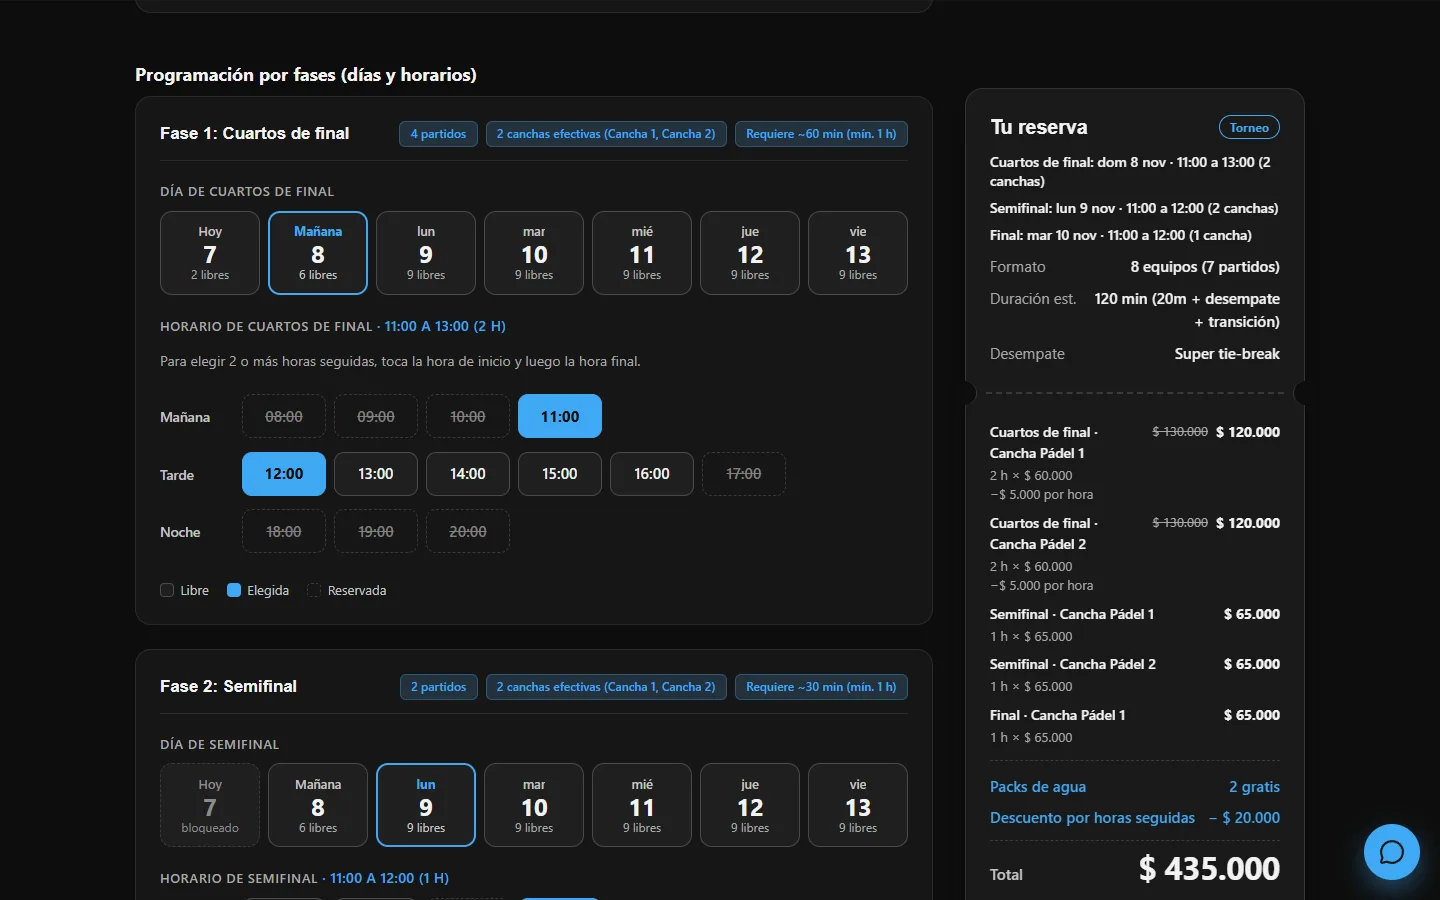
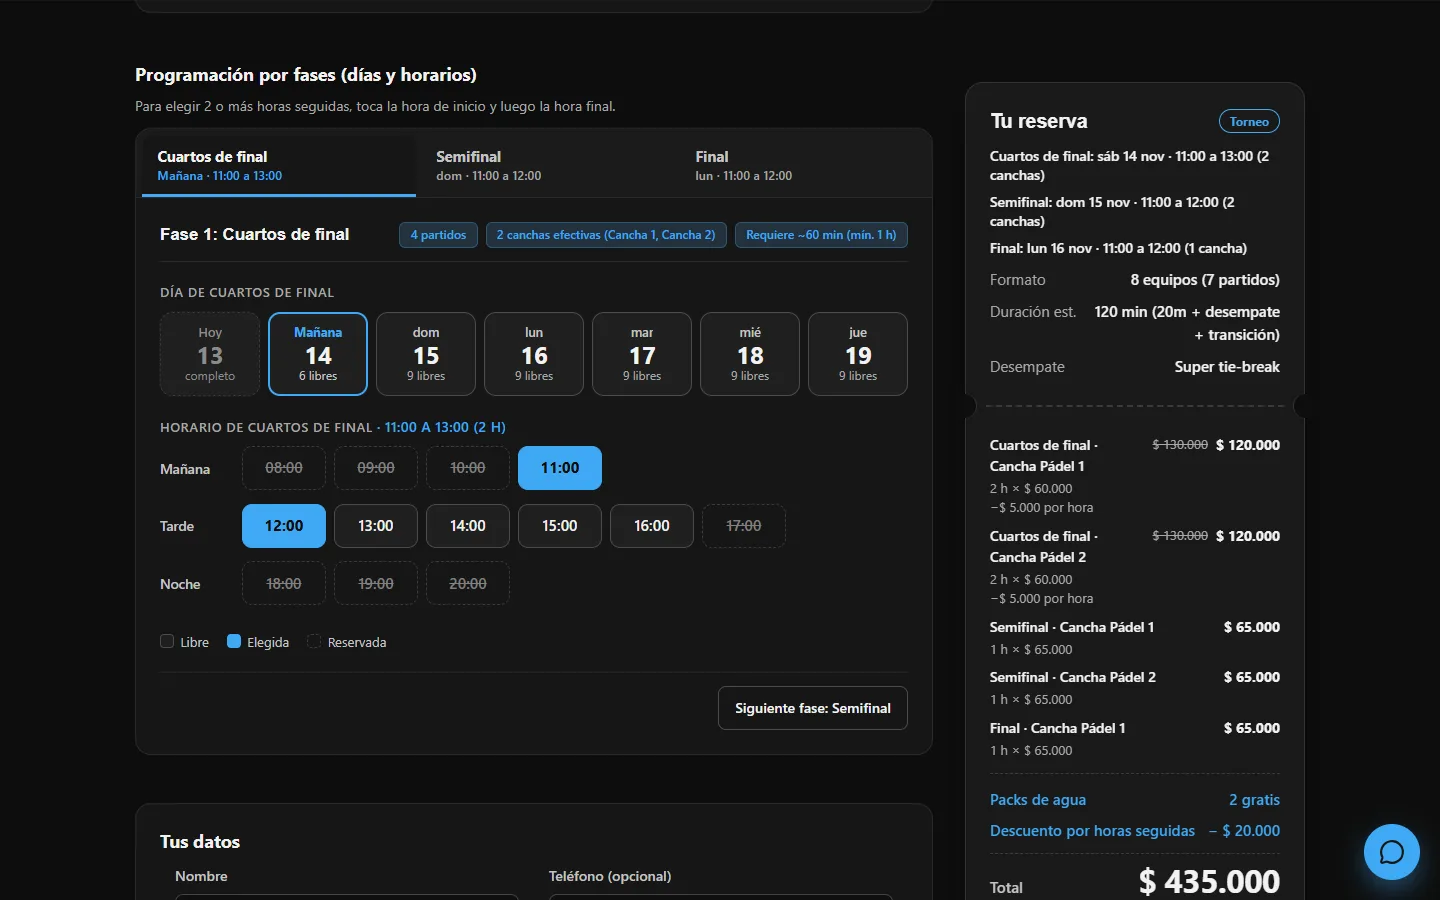
docs: documenta las pestañas de fases del torneo

diff --git a/README.md b/README.md
@@ -11,7 +11,7 @@ conversacional** que también reserva y cancela.
 ![Foundation](https://img.shields.io/badge/Foundation-6.8-1779BA)
 ![GSAP](https://img.shields.io/badge/GSAP-3.13-88CE02)
 ![Gemini](https://img.shields.io/badge/Gemini-function%20calling-8E75B2?logo=googlegemini&logoColor=white)
-![Tests](https://img.shields.io/badge/tests-275%20en%20verde-2EA44F)
+![Tests](https://img.shields.io/badge/tests-282%20en%20verde-2EA44F)
 
 ![Hero de voley playa con el video de fondo y el botón del asistente](docs/capturas/inicio.webp)
 
@@ -147,10 +147,11 @@ cada tipo de reserva:
     min**) y el emparejamiento (**sorteo aleatorio** o **cruces manuales**
     editables en la primera ronda). El desempate depende del deporte: **penales**
     en fútbol, **tie-break** en voley playa y **super tie-break** en pádel;
-  - cada fase se programa en su propio día y rango de horas dentro de la
-    ventana de 7 días (en fechas crecientes o el mismo día después de cerrar la
-    fase previa), con alertas si el tiempo elegido no alcanza y acción rápida
-    para bajar a partidos de 15 min;
+  - cada fase se programa desde su propia **pestaña** (mostrando una fase a la
+    vez con el resumen del horario elegido o aviso si hay alertas) en su propio
+    día y rango de horas dentro de la ventana de 7 días (en fechas crecientes o
+    el mismo día después de cerrar la fase previa), con alertas si el tiempo
+    elegido no alcanza y acción rápida para bajar a partidos de 15 min;
   - incluye **llaves interactivas (bracket)** a ancho completo con los partidos
     numerados como **"Partido N"** en orden de juego y la indicación de ganador
     en rondas posteriores. En **escritorio** son **simétricas con la final al
@@ -167,7 +168,7 @@ cada tipo de reserva:
 
 | Programación por fases del torneo | Bracket interactivo del torneo |
 |:---:|:---:|
-| <img src="docs/capturas/modo-torneo.webp" alt="Programación por fases del torneo en tema oscuro con selector de día, horario por franjas y comprobante con forma de tiquete" width="440"> | <img src="docs/capturas/torneo-bracket.webp" alt="Llaves simétricas del torneo a ancho completo con la final al centro, trofeo y partidos numerados en orden de juego" width="440"> |
+| <img src="docs/capturas/modo-torneo.webp" alt="Programación por fases del torneo en pestañas con tema oscuro, selector de día, horario por franjas y comprobante con forma de tiquete" width="440"> | <img src="docs/capturas/torneo-bracket.webp" alt="Llaves simétricas del torneo a ancho completo con la final al centro, trofeo y partidos numerados en orden de juego" width="440"> |
 
 La sección **Eventos y torneos** de la página muestra cifras reales del local
 (deportes, canchas, días y horario, con un conteo animado) y una galería por
@@ -464,7 +465,7 @@ probarlo en local:
 ## Pruebas
 
 ```bash
-npm test                          # 275 tests en 28 archivos (Vitest)
+npm test                          # 282 tests en 29 archivos (Vitest)
 npm run lint                      # ESLint sobre src, api y scripts
 npm run build                     # build de producción en /dist
 ```

diff --git a/docs/agentes/torneo.md b/docs/agentes/torneo.md
@@ -16,7 +16,7 @@ Para el flujo general de `RESERVAR_EVENTO` y `validarReservaEvento`, ver `docs/a
 
 ## Componentes de `torneo/` y asistente móvil
 
-- `torneo/`: `CalendarioTorneo` (día y horario por fase, con bloqueo de lo anterior a la fase previa), `Bracket` (llaves; también en la confirmación), `SeccionLlaves` (llaves a ancho completo), `IndicadorPasos` (5 pasos en escritorio, 6 clicables en móvil), `AsignacionManual` (cruces manuales con intercambio), `AlertaTiempo` (tiempo insuficiente, con acción para bajar a 15 min por partido), `AsistenteTorneo` y `useAsistenteTorneo` (asistente por pasos en móvil) y los bloques `PasoFormato`, `PasoFechas`, `PasoCapacidad`, `PasoLlaves`, `PasoDatos` y `PasoGuardados` (`Paso*.jsx`).
+- `torneo/`: `CalendarioTorneo` (muestra las fases en pestañas: una fase visible a la vez con todas montadas mediante `hidden`, resumen de horario y aviso en la pestaña; día y horario por fase, con bloqueo de lo anterior a la fase previa), `Bracket` (llaves; también en la confirmación), `SeccionLlaves` (llaves a ancho completo), `IndicadorPasos` (5 pasos en escritorio, 6 clicables en móvil), `AsignacionManual` (cruces manuales con intercambio), `AlertaTiempo` (tiempo insuficiente, con acción para bajar a 15 min por partido), `AsistenteTorneo` y `useAsistenteTorneo` (asistente por pasos en móvil) y los bloques `PasoFormato`, `PasoFechas`, `PasoCapacidad`, `PasoLlaves`, `PasoDatos` y `PasoGuardados` (`Paso*.jsx`).
 - **Asistente del torneo en móvil** (desde el 07-11-2026; spec en `odd/tasks/asistente-torneo-movil.md`): bajo `large` (`(max-width: 63.9375em)`) el modo torneo muestra un paso a la vez; en escritorio y en los otros modos, el layout de siempre.
   - Pasos (`src/lib/pasosTorneo.js`, puro y con tests): `canchas`, `formato`, `fechas`, `llaves`, `datos` y `resumen`. `estadoPasosTorneo(reserva)` da la completitud y el motivo de cada uno; `pasosAlcanzables` decide a qué paso se puede saltar (los completos y el primero incompleto). `IndicadorPasos` usa la misma regla y en escritorio sigue mostrando 5 pasos.
   - `torneo/useAsistenteTorneo.js` (`esMovil` con `matchMedia`, paso actual, `siguiente`/`anterior`/`irA`, scroll y foco al título del paso) y `torneo/AsistenteTorneo.jsx` (cabecera, indicador clicable y barra inferior fija con "Paso N de 6"). Todo lo elegido sigue en `useReserva`: cambiar de paso o de tamaño no pierde nada.
